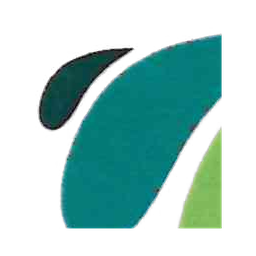
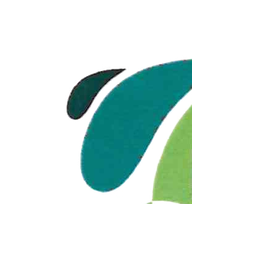
Aggiunge icona e web app manifest per l'installazione da home screen
Genera un set di icone quadrate dal marchio (ritagliato dal logo,
centrato su sfondo bianco con margine di sicurezza per il masking
Android) e aggiunge il manifest PWA: aggiungendo il sito alla home
screen da telefono, ora appare come una vera app con l'icona
Manuten & Clean invece della semplice pagina web.

- src/app/icon.png e apple-icon.png: icone rigenerate dal marchio
- public/icon-192.png, icon-512.png: icone per il manifest
- src/app/manifest.ts: nome, icone, display "standalone"
- layout.tsx: appleWebApp per l'installazione su iOS

diff --git a/src/app/manifest.ts b/src/app/manifest.ts
@@ -1,0 +1,41 @@
+import type { MetadataRoute } from "next";
+
+export default function manifest(): MetadataRoute.Manifest {
+  return {
+    name: "Manuten & Clean · Fogli di lavoro",
+    short_name: "Fogli di lavoro",
+    description:
+      "Compilazione e archivio digitale dei fogli di lavoro di Manuten & Clean.",
+    start_url: "/nuovo",
+    display: "standalone",
+    background_color: "#f1f5f9",
+    theme_color: "#086660",
+    lang: "it",
+    icons: [
+      {
+        src: "/icon-192.png",
+        sizes: "192x192",
+        type: "image/png",
+        purpose: "any",
+      },
+      {
+        src: "/icon-192.png",
+        sizes: "192x192",
+        type: "image/png",
+        purpose: "maskable",
+      },
+      {
+        src: "/icon-512.png",
+        sizes: "512x512",
+        type: "image/png",
+        purpose: "any",
+      },
+      {
+        src: "/icon-512.png",
+        sizes: "512x512",
+        type: "image/png",
+        purpose: "maskable",
+      },
+    ],
+  };
+}

diff --git a/src/app/layout.tsx b/src/app/layout.tsx
@@ -6,6 +6,12 @@ export const metadata: Metadata = {
   title: "Fogli di lavoro · Manuten & Clean",
   description:
     "Compilazione e archivio digitale dei fogli di lavoro di Manuten & Clean.",
+  applicationName: "Fogli di lavoro",
+  appleWebApp: {
+    capable: true,
+    title: "Fogli di lavoro",
+    statusBarStyle: "default",
+  },
 };
 
 export const viewport: Viewport = {
